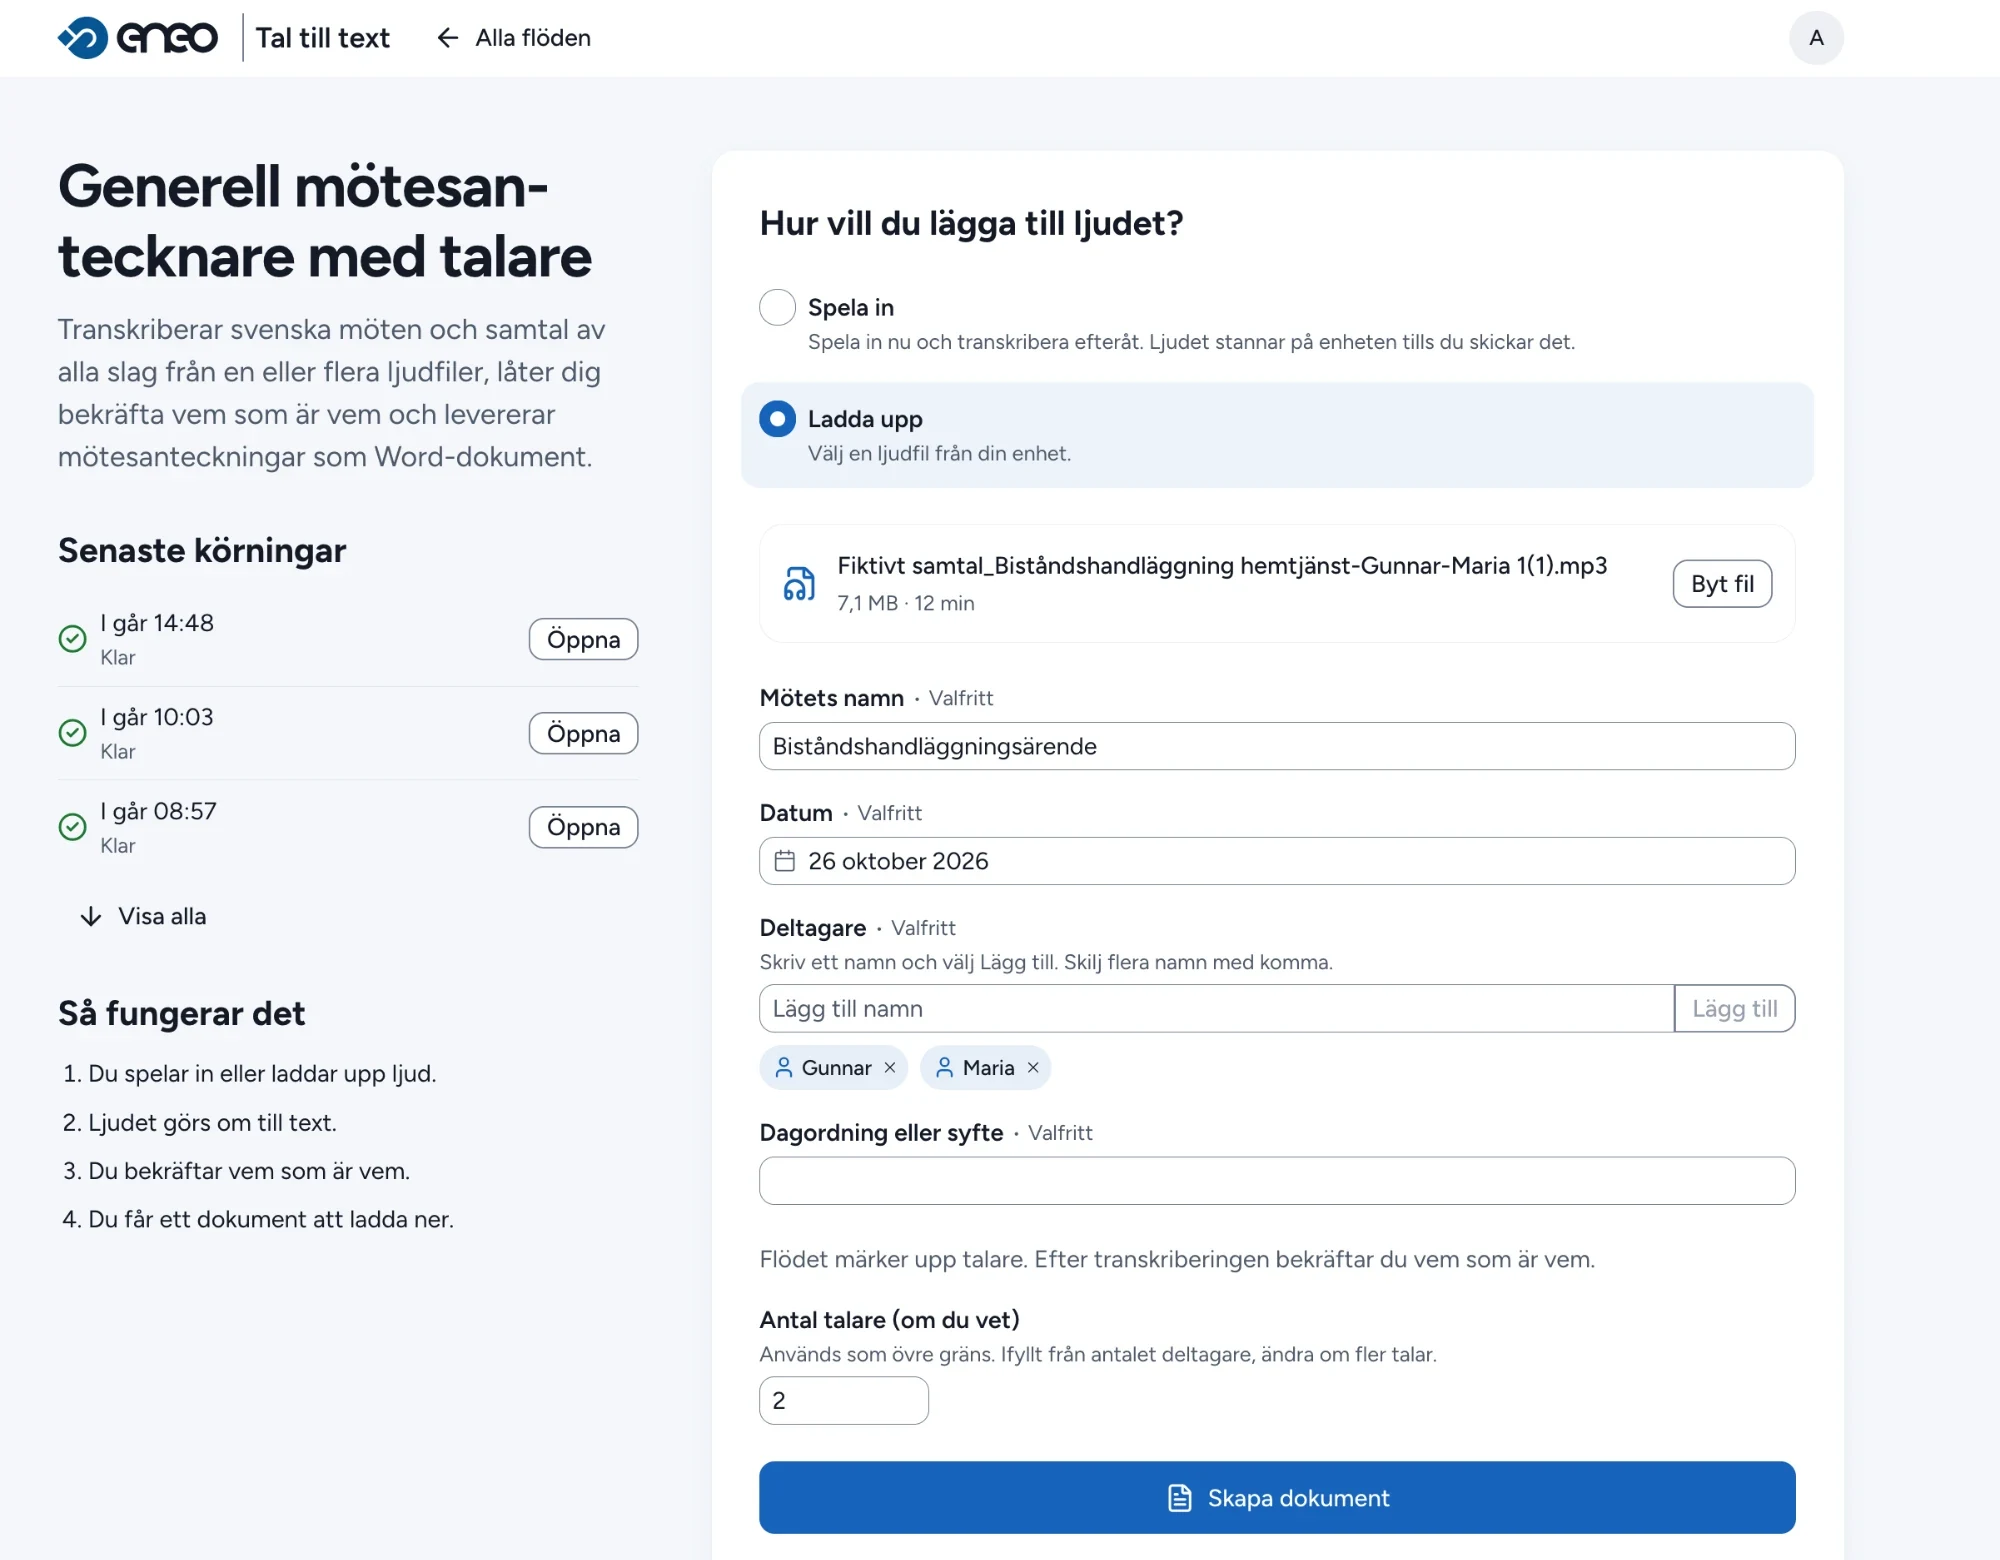
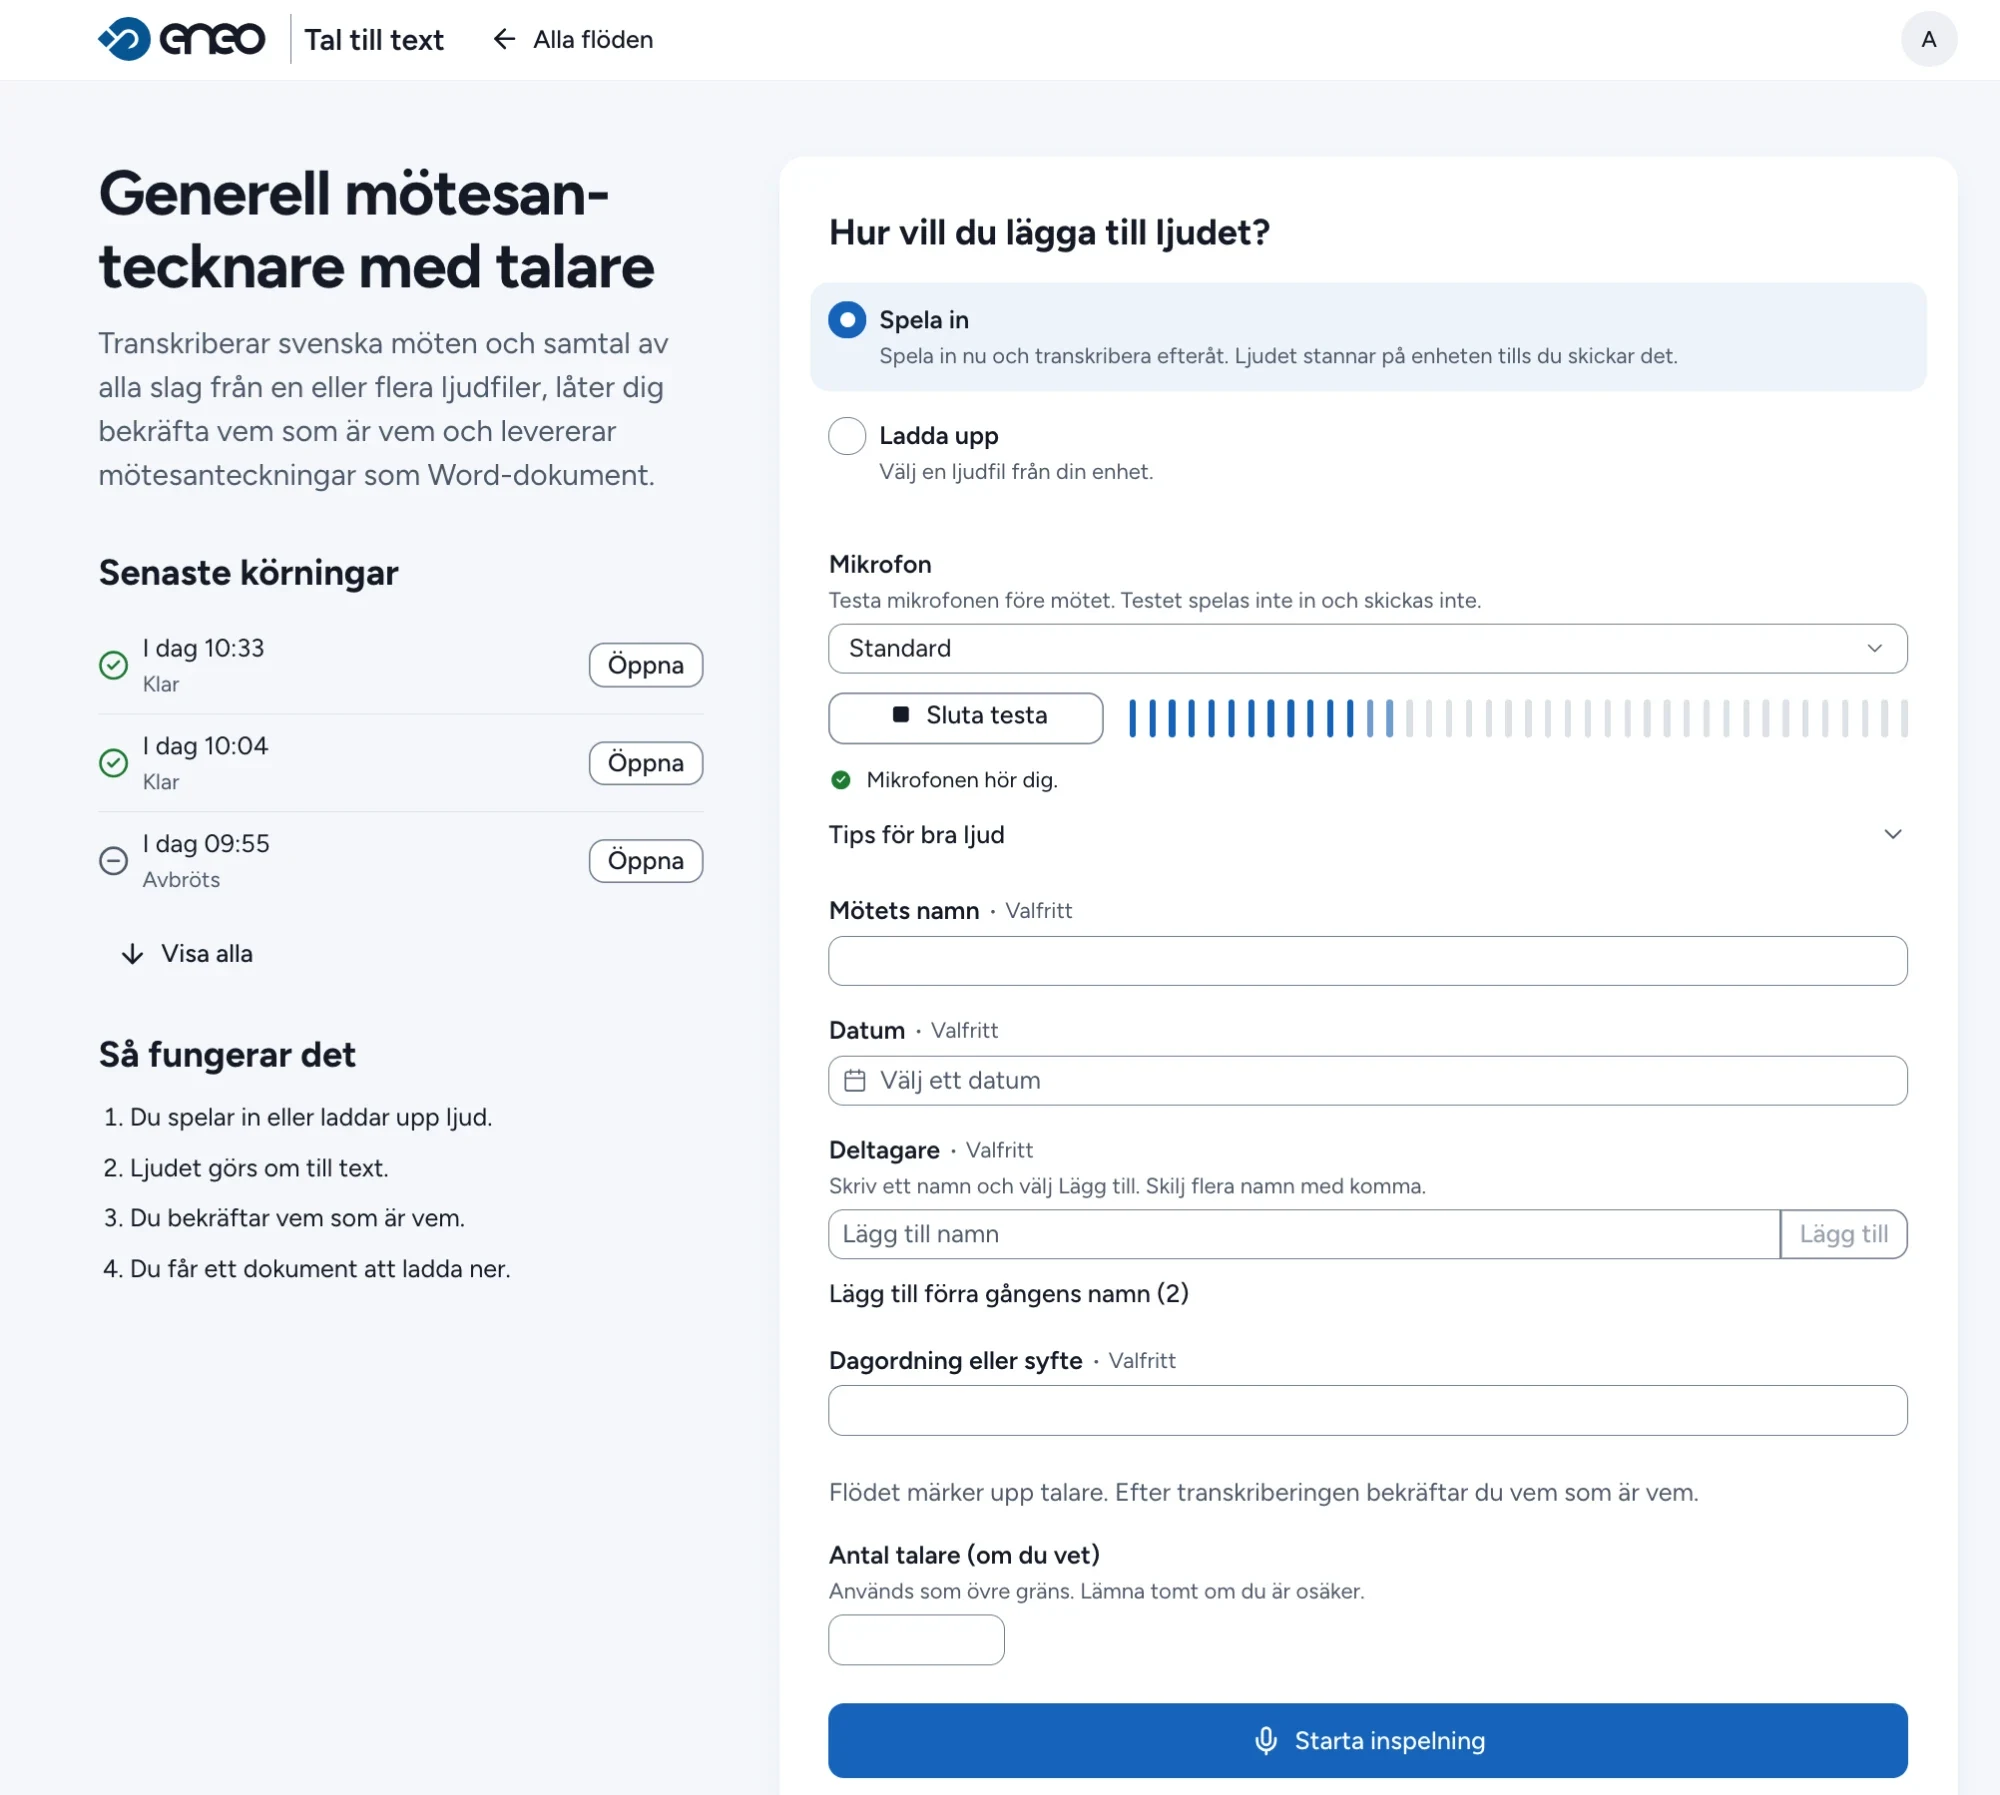
Tal till resultat: visa Spela in i steg 2 (#4)
Bilden i steg 2, Lägg till ljudet, visar nu Spela in som vald, med
mikrofontestet igång, i stället för Ladda upp med en vald fil. Stegtexten
nämner att mikrofonen kan testas först.

diff --git a/tal-till-resultat.html b/tal-till-resultat.html
@@ -192,13 +192,13 @@
                         <div class="tr-tour-text">
                             <span class="tr-tour-num" aria-hidden="true">2</span>
                             <h3>Lägg till ljudet</h3>
-                            <p>Spela in direkt eller ladda upp en ljudfil. Fyll i mötets namn, datum, deltagare och syfte – allt är valfritt. Deltagarnas namn används när talarna ska få namn.</p>
+                            <p>Spela in direkt eller ladda upp en ljudfil. Testa mikrofonen först – testet spelas inte in och skickas inte. Fyll i mötets namn, datum, deltagare och syfte – allt är valfritt. Deltagarnas namn används när talarna ska få namn.</p>
                         </div>
                         <figure class="tr-shot">
                             <a class="tr-zoom" href="public/images/floden/10-ttt-lagg-till-ljud.webp" target="_blank" rel="noopener">
                                 <div class="tr-frame">
                                     <div class="tr-frame-bar" aria-hidden="true"><span></span><span></span><span></span></div>
-                                    <img src="public/images/floden/10-ttt-lagg-till-ljud.webp" width="2000" height="1560" loading="lazy" alt="Tal till text: valen Spela in och Ladda upp, en vald ljudfil, fälten Mötets namn, Datum, Deltagare och Dagordning eller syfte, Antal talare och knappen Skapa dokument">
+                                    <img src="public/images/floden/10-ttt-lagg-till-ljud.webp" width="2000" height="1795" loading="lazy" alt="Tal till text: valet Spela in är markerat bredvid Ladda upp, mikrofontestet visar en nivåmätare och texten Mikrofonen hör dig, under fälten Mötets namn, Datum, Deltagare, Dagordning eller syfte och Antal talare, och knappen Starta inspelning">
                                 </div>
                                 <span class="sr-only">Öppna i full storlek (öppnas i ny flik)</span>
                             </a>
